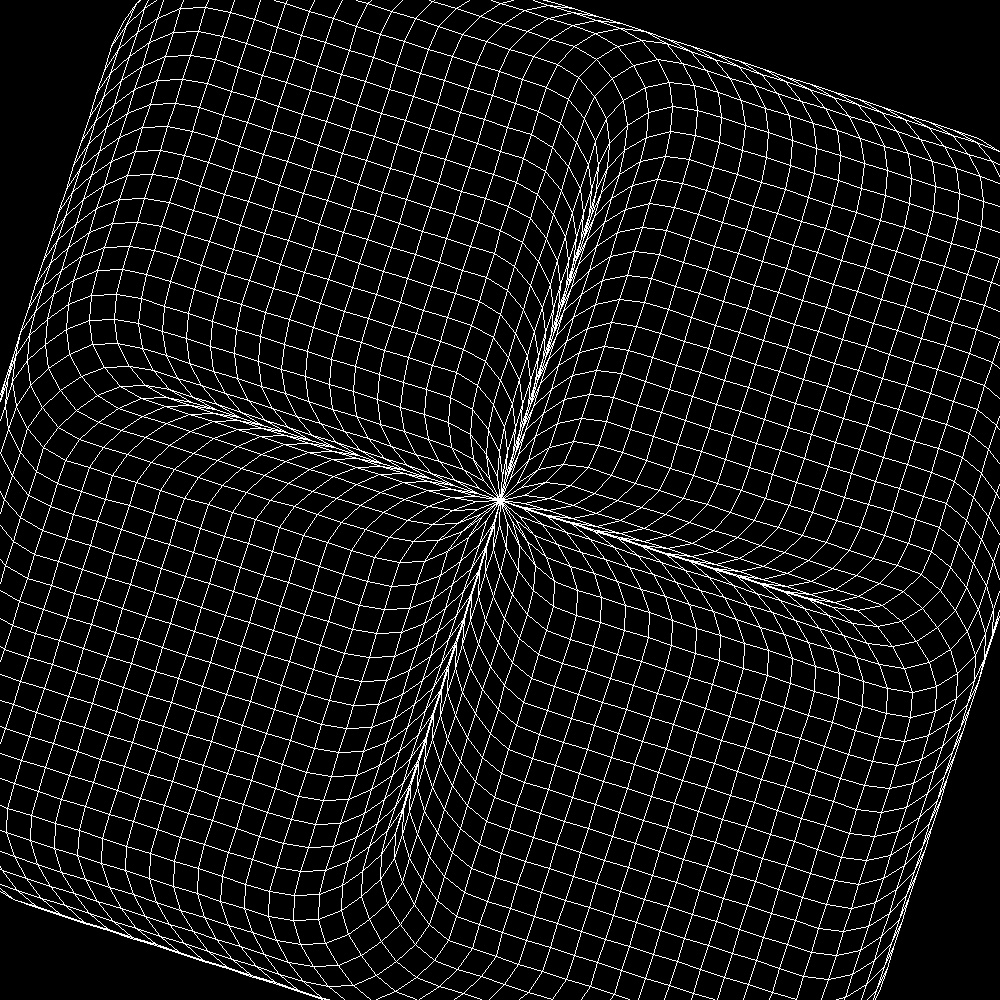
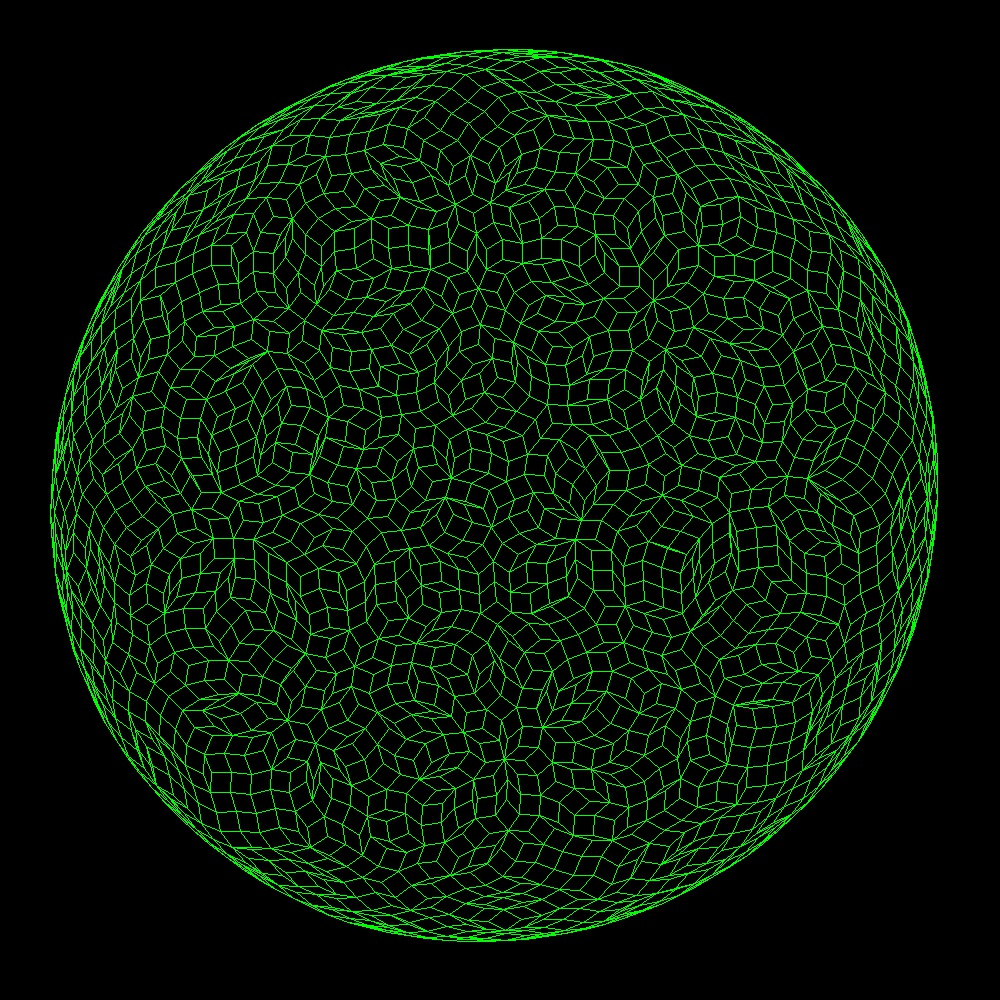
foo

diff --git a/rhomboids.py b/rhomboids.py
@@ -49,7 +49,18 @@ for i in range(number):
 for i in range(number * 2):
     angle += theta2 * 1j
     lines.append(line(np.exp(angle) * (1 + 0.00001 * i), np.exp(rightAngle * 1j + angle)))
+
     
+lines = []
+number = 70
+#theta = 1.0 / 2.03 * fullAngle
+theta = (np.sqrt(5) - 1) / 2 * fullAngle
+for i in range(number):
+    angle += theta * 1j
+#    lines.append(line(np.exp(angle) * (1 + 0.0001 * i), np.exp(rightAngle * 1j + angle)))    
+    lines.append(line(np.exp(angle) * (-0.5001 + 1.0 * i / number), np.exp(rightAngle * 1j + angle)))
+
+
 def z2xy(z):
     return (np.real(z), np.imag(z))
 
@@ -61,7 +72,11 @@ def intersection(l1, l2):
     if ((x1- x2)*(y3- y4) - (y1 - y2)*(x3 - x4)) == 0:
         return None
     else:
-        return ((x1*y2 - y1*x2) * (x3 - x4) - (x1 - x2) * (x3*y4 - y3*x4)) / ((x1- x2)*(y3- y4) - (y1 - y2)*(x3 - x4)) + ((x1*y2 - y1*x2) * (y3 - y4) - (y1 - y2) * (x3*y4 - y3*x4)) / ((x1- x2)*(y3- y4) - (y1 - y2)*(x3 - x4)) * 1j
+        ret = ((x1*y2 - y1*x2) * (x3 - x4) - (x1 - x2) * (x3*y4 - y3*x4)) / ((x1- x2)*(y3- y4) - (y1 - y2)*(x3 - x4)) + ((x1*y2 - y1*x2) * (y3 - y4) - (y1 - y2) * (x3*y4 - y3*x4)) / ((x1- x2)*(y3- y4) - (y1 - y2)*(x3 - x4)) * 1j
+        if np.abs(ret) > 10000.0:
+            return None
+        else:
+            return ret
 
 def position(l, x):
     if np.imag((x - l.somePoint) / l.direction) >= 0:
@@ -69,11 +84,13 @@ def position(l, x):
     else:
         return 1
 
+"""
 for l in lines:
-    print l
-    print position(l, origin)
-    print position(l, 3)
-
+    print(l)
+    print(position(l, origin))
+    print(position(l, 3))
+"""
+    
 def genRhomboidFaceKeys(lines):
     ret = {}
     previousIntersections = []
@@ -82,7 +99,8 @@ def genRhomboidFaceKeys(lines):
             p = intersection(lines[i1], lines[i2])
             if p <> None:
                 if p in previousIntersections:
-                    raise Error("multiple lines intersect at same point")
+                    raise ValueError("multiple lines intersect at same point", p)
+                previousIntersections.append(p)
                 retKey = ""
                 for i3 in range(len(lines)):
                     if i3 == i1:
@@ -99,13 +117,9 @@ def getRhomboidVertices(key, lines):
     for i in range(len(lines)):
         position = key[i]
         if position == 'a':
-#            ret1 -= lines[i].getNormal()
             ret2 += lines[i].getNormal()
-#            ret3 -= lines[i].getNormal()
             ret4 += lines[i].getNormal()
         if position == 'b':
-#            ret1 -= lines[i].getNormal()
-#            ret2 -= lines[i].getNormal()            
             ret3 += lines[i].getNormal()
             ret4 += lines[i].getNormal()
         if position == '1':
@@ -113,34 +127,29 @@ def getRhomboidVertices(key, lines):
             ret2 += lines[i].getNormal()
             ret3 += lines[i].getNormal()
             ret4 += lines[i].getNormal()            
-#        if position == '0':
-#            ret1 -= lines[i].getNormal()
-#            ret2 -= lines[i].getNormal()
-#            ret3 -= lines[i].getNormal()
-#            ret4 -= lines[i].getNormal()            
     return (ret1, ret2, ret3, ret4)
 
 
 height = 1000
 width = 1000
-length = 25
+length = 20
 
 def z2imgPoint(z):
     return (width / 2 + int(np.real(z * length)), height / 2 - int(np.imag(z * length)))
 
 img =  np.zeros((height,width,3), np.uint8)
-
-
 faceKeys = genRhomboidFaceKeys(lines)
 
 print "------------------------------------------------------------"
+cGreen = (0, 255, 0)
+
 for key in faceKeys:
     (v1, v2, v3, v4) = getRhomboidVertices(key, lines)
-    print key, faceKeys[key], z2imgPoint(v1), z2imgPoint(v2), z2imgPoint(v3), z2imgPoint(v4)
-    cv2.line(img = img, pt1 = z2imgPoint(v1), pt2 = z2imgPoint(v2), color = (255, 255, 255))
-    cv2.line(img = img, pt1 = z2imgPoint(v1), pt2 = z2imgPoint(v3), color = (255, 255, 255))
-    cv2.line(img = img, pt1 = z2imgPoint(v4), pt2 = z2imgPoint(v2), color = (255, 255, 255))
-    cv2.line(img = img, pt1 = z2imgPoint(v4), pt2 = z2imgPoint(v3), color = (255, 255, 255))
+#    print key, faceKeys[key], z2imgPoint(v1), z2imgPoint(v2), z2imgPoint(v3), z2imgPoint(v4)
+    cv2.line(img = img, pt1 = z2imgPoint(v1), pt2 = z2imgPoint(v2), color = cGreen)
+    cv2.line(img = img, pt1 = z2imgPoint(v1), pt2 = z2imgPoint(v3), color = cGreen)
+    cv2.line(img = img, pt1 = z2imgPoint(v4), pt2 = z2imgPoint(v2), color = cGreen)
+    cv2.line(img = img, pt1 = z2imgPoint(v4), pt2 = z2imgPoint(v3), color = cGreen)
 
 cv2.imshow('image',img)
 cv2.imwrite('test.jpg', img)
